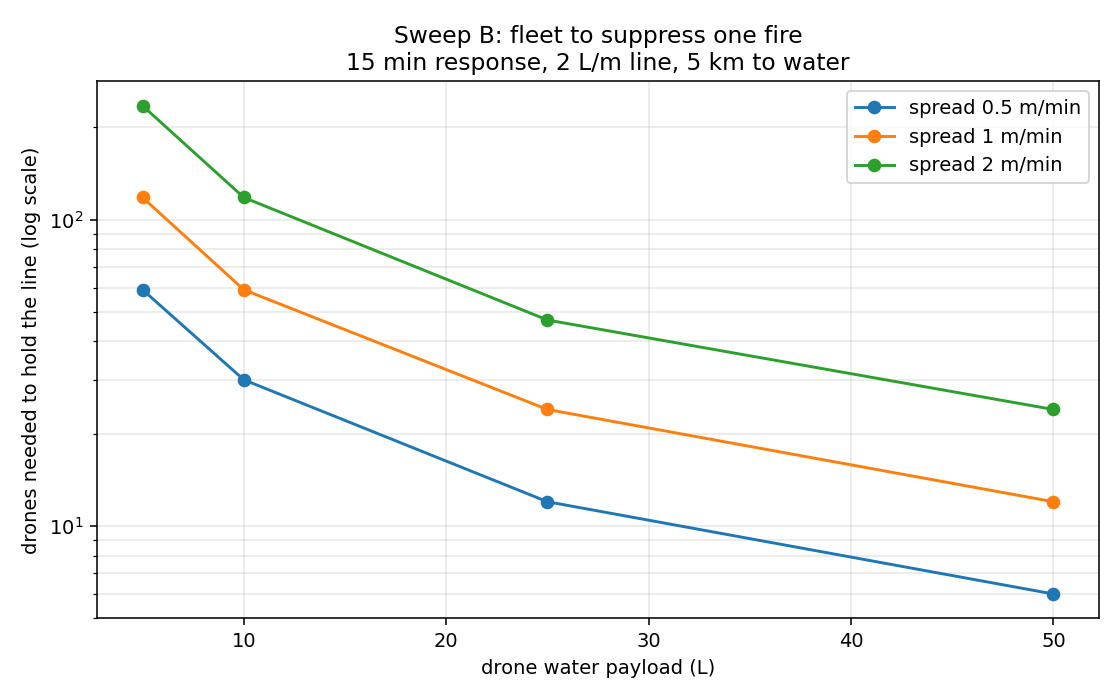
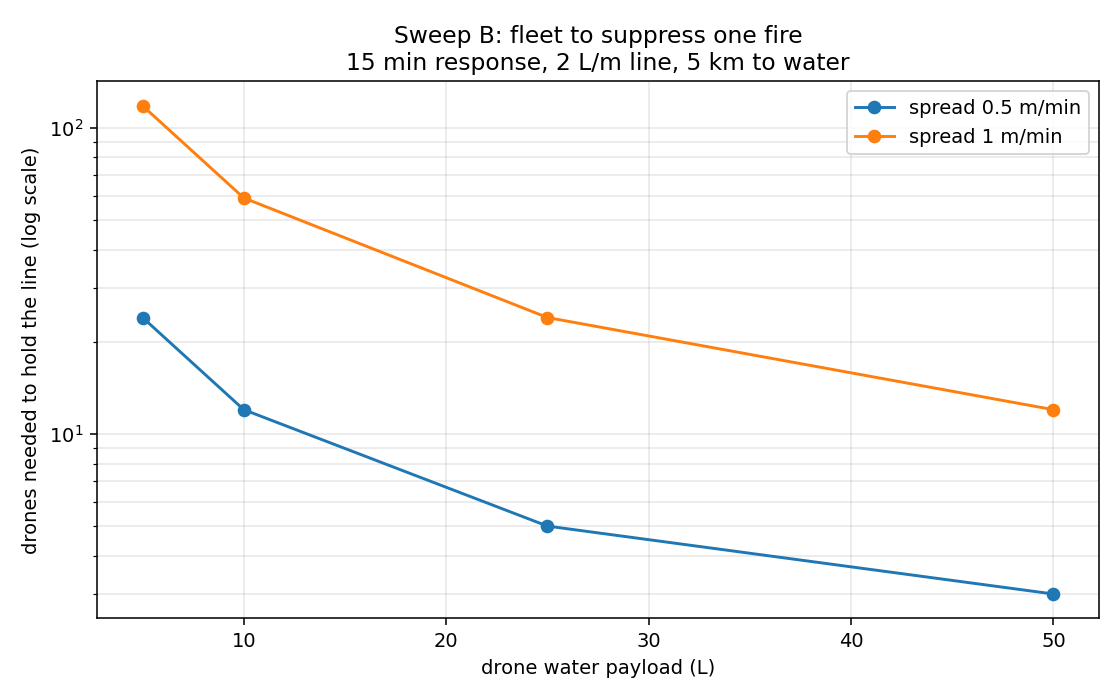
fix: make the suppression window scale with spread rate
Review found the same defect class that burned Tier 0: window_min was a
constant (4000/200 = 20 min), independent of every swept axis, so the
"36/108 configs impossible" headline was the statement 30 > 20 restated 36
times. All 36 infeasible rows were exactly the 30-min-response rows; the
sweep contributed nothing to the conclusion.

Byram's I = H * w * ROS says intensity scales with rate of spread, so a
faster fire must hit the water-is-useless limit sooner. The growth rate is
now quoted at a reference spread rate and scaled linearly: 40 min at
0.5 m/min, 20 at 1.0, 10 at 2.0. Still a linear stand-in, not Byram with
real fuel load; the ponytail comment names the ceiling.

Same 36/108 count, genuinely different cause. Infeasibility is now a race
between spread rate and response time: 0.5 m/min never fails, 1.0 fails
only at a 30 min response, 2.0 fails at 15 or 30. Payload and litres-per-
metre no longer isolate any single value.

Also surfaces the full-ring assumption the reviewer flagged as invisible:
perimeter_share is now a knob, the CSV carries a head-and-flanks column at
0.5, and report() states the assumption instead of burying it in a
docstring.

Two new self-checks guard both fixes, and both were verified to fail when
the defect is reintroduced rather than merely to pass.

Claude-Session: https://claude.ai/code/session_01Q2iB77dJMSaEEz9tTzEKvp

diff --git a/suppression.py b/suppression.py
@@ -46,10 +46,21 @@ CONFIG = {
     # regardless of how much water arrives; crews and helicopters are pulled
     # for the same reason. Used as a hard time window, not a modelled term.
     "intensity_limit_kw_per_m": 4000.0,
-    "intensity_growth_kw_per_m_per_min": 200.0,  # coarse ramp to the limit
+    # ponytail: Byram's I = H * w * ROS says fireline intensity scales
+    # linearly with rate of spread; a fixed-time window ignores that, so the
+    # growth rate is quoted at a reference ROS and scaled linearly with the
+    # swept ros_m_per_min instead. Ceiling: this is still a linear stand-in,
+    # not Byram's formula with real fuel load/heat yield - upgrade path is
+    # Tier 1 with cited fuel data.
+    "intensity_growth_kw_per_m_per_min_at_ref_ros": 200.0,
+    "ref_ros_m_per_min": 1.0,
     # --- response ---
     "response_delay_min": (5.0, 15.0, 30.0),  # ignition -> first water on fire
     "payload_l": (5.0, 10.0, 25.0, 50.0),     # 5L toy .. 50L heavy-lift
+    # Share of the perimeter direct attack must hold. 1.0 = full ring
+    # (worst case, wetting the entire growing circle forever); 0.5 = head
+    # and flanks only, crediting progressive containment on the rest.
+    "perimeter_share": 1.0,
     # --- the incumbent we are being compared to ---
     "heli_drop_l": 3000.0,
     "heli_cycle_s": 900.0,
@@ -63,7 +74,8 @@ def validate_config(cfg):
     """Fail loud at startup rather than mid-sweep."""
     positive = [
         "cruise_mps", "drop_s", "refill_s", "water_source_km",
-        "intensity_limit_kw_per_m", "intensity_growth_kw_per_m_per_min",
+        "intensity_limit_kw_per_m", "intensity_growth_kw_per_m_per_min_at_ref_ros",
+        "ref_ros_m_per_min", "perimeter_share",
         "heli_drop_l", "heli_cycle_s", "drone_cost",
     ]
     for key in positive:
@@ -88,15 +100,21 @@ def perimeter_m(ros_m_per_min, t_min):
     return 2.0 * math.pi * ros_m_per_min * t_min
 
 
-def hold_flow_lps(ros_m_per_min, water_l_per_m):
-    """Flow needed to WET new perimeter as fast as the fire creates it.
+def hold_flow_lps(ros_m_per_min, water_l_per_m, perimeter_share=1.0):
+    """Flow needed to WET the held share of new perimeter as fast as the
+    fire creates it.
 
     dP/dt = 2*pi*ROS is constant for a circular fire, so the holding
     requirement is a constant flow rate independent of when you arrive.
     Arriving late does not raise this rate; it raises the one-off knockdown
     volume below.
+
+    perimeter_share defaults to 1.0: the worst case of wetting the whole
+    growing ring forever. Real direct attack concentrates on the unheld
+    arc (head and flanks), often well under half the circle - pass a
+    smaller share to credit progressive containment on the rest.
     """
-    return 2.0 * math.pi * ros_m_per_min * water_l_per_m / 60.0
+    return 2.0 * math.pi * ros_m_per_min * water_l_per_m * perimeter_share / 60.0
 
 
 def knockdown_l(ros_m_per_min, water_l_per_m, t_min):
@@ -104,10 +122,17 @@ def knockdown_l(ros_m_per_min, water_l_per_m, t_min):
     return perimeter_m(ros_m_per_min, t_min) * water_l_per_m
 
 
-def window_min(cfg):
+def window_min(ros_m_per_min, cfg):
     """Minutes from ignition until fireline intensity passes the point where
-    water stops working. Beyond this the fleet size is academic."""
-    return cfg["intensity_limit_kw_per_m"] / cfg["intensity_growth_kw_per_m_per_min"]
+    water stops working. Beyond this the fleet size is academic.
+
+    Byram's I = H * w * ROS: intensity scales linearly with rate of spread,
+    so a faster fire must hit the limit sooner. Growth rate is quoted at a
+    reference ROS and scaled linearly - see ponytail on CONFIG.
+    """
+    growth = (cfg["intensity_growth_kw_per_m_per_min_at_ref_ros"]
+              * ros_m_per_min / cfg["ref_ros_m_per_min"])
+    return cfg["intensity_limit_kw_per_m"] / growth
 
 
 def fleet_size(payload_l, ros_m_per_min, water_l_per_m, delay_min, cfg):
@@ -116,9 +141,9 @@ def fleet_size(payload_l, ros_m_per_min, water_l_per_m, delay_min, cfg):
     Knockdown must land inside the remaining window before intensity passes
     the limit, so it too becomes a flow requirement, not just a volume.
     """
-    remaining_min = window_min(cfg) - delay_min
+    remaining_min = window_min(ros_m_per_min, cfg) - delay_min
     per_drone = drone_flow_lps(payload_l, cfg)
-    hold = hold_flow_lps(ros_m_per_min, water_l_per_m)
+    hold = hold_flow_lps(ros_m_per_min, water_l_per_m, cfg["perimeter_share"])
     if remaining_min <= 0.0:
         # Arrived after water stops working. No fleet size succeeds.
         return None, hold / per_drone, float("inf")
@@ -137,9 +162,11 @@ def run_sweep(cfg=CONFIG):
     axes = itertools.product(
         cfg["payload_l"], cfg["ros_m_per_min"], cfg["water_l_per_m"], cfg["response_delay_min"]
     )
+    half_cfg = dict(cfg, perimeter_share=0.5)
     for payload_l, ros, wpm, delay in axes:
         n, hold_drones, knock_drones = fleet_size(payload_l, ros, wpm, delay, cfg)
         feasible = n is not None
+        n_half, _, _ = fleet_size(payload_l, ros, wpm, delay, half_cfg)
         rows.append({
             "payload_l": payload_l,
             "ros_m_per_min": ros,
@@ -154,6 +181,9 @@ def run_sweep(cfg=CONFIG):
                 round(n * drone_flow_lps(payload_l, cfg) / heli_equivalent(cfg), 2)
                 if feasible else ""
             ),
+            # perimeter_share=0.5: head-and-flanks direct attack instead of
+            # the full-ring worst case. See CONFIG["perimeter_share"].
+            "fleet_drones_half_perimeter": n_half if n_half is not None else "",
         })
     return rows
 
@@ -205,14 +235,21 @@ def report(rows, cfg=CONFIG):
     mid_delay = sorted(cfg["response_delay_min"])[len(cfg["response_delay_min"]) // 2]
     best_payload = max(cfg["payload_l"])
     n, _, _ = fleet_size(best_payload, mid_ros, mid_wpm, mid_delay, cfg)
+    n_half, _, _ = fleet_size(best_payload, mid_ros, mid_wpm, mid_delay,
+                               dict(cfg, perimeter_share=0.5))
     lines = [
-        f"Water stops working ~{window_min(cfg):g} min after ignition "
-        f"({cfg['intensity_limit_kw_per_m']:g} kW/m at "
-        f"{cfg['intensity_growth_kw_per_m_per_min']:g} kW/m/min).",
+        f"Water stops working ~{window_min(mid_ros, cfg):g} min after ignition at "
+        f"{mid_ros:g} m/min ({cfg['intensity_limit_kw_per_m']:g} kW/m at "
+        f"{cfg['intensity_growth_kw_per_m_per_min_at_ref_ros']:g} kW/m/min "
+        f"quoted at {cfg['ref_ros_m_per_min']:g} m/min, scaled linearly with spread).",
         f"One drone cycle is {cycle_s(cfg) / 60.0:.1f} min for "
         f"{best_payload:g} L -> {drone_flow_lps(best_payload, cfg):.2f} L/s sustained.",
         f"One helicopter sustains {heli_lps:.1f} L/s "
         f"= {heli_lps / drone_flow_lps(best_payload, cfg):.0f} of those drones.",
+        f"Fleet sizes assume the full-ring worst case (perimeter_share="
+        f"{cfg['perimeter_share']:g}: wetting the entire growing perimeter "
+        f"continuously). Crediting head-and-flanks direct attack only "
+        f"(perimeter_share=0.5) roughly halves the requirement.",
     ]
     if n is None:
         lines.append(
@@ -220,10 +257,12 @@ def report(rows, cfg=CONFIG):
             f"NO fleet size works - water arrives after the window closes."
         )
     else:
+        half_txt = f"{n_half} at perimeter_share=0.5" if n_half is not None else "still infeasible at 0.5"
         lines.append(
             f"At {mid_ros:g} m/min, {mid_wpm:g} L/m, {mid_delay:g} min response: "
             f"{n} x {best_payload:g}L drones = EUR {n * cfg['drone_cost']:,.0f} capex "
-            f"to match roughly {n * drone_flow_lps(best_payload, cfg) / heli_lps:.1f} helicopters."
+            f"to match roughly {n * drone_flow_lps(best_payload, cfg) / heli_lps:.1f} helicopters "
+            f"({half_txt})."
         )
     infeasible = sum(1 for r in rows if not r["feasible"])
     lines.append(f"{infeasible}/{len(rows)} configs cannot be held at any fleet size.")
@@ -263,7 +302,7 @@ def check_knockdown_grows_with_delay():
 def check_fleet_monotonic():
     """Every axis must push fleet size the way physics says, or an axis is
     inert - the exact defect that survived six reviews in Tier 0."""
-    base = dict(payload_l=25.0, ros_m_per_min=1.0, water_l_per_m=2.0, delay_min=10.0, cfg=CONFIG)
+    base = dict(payload_l=25.0, ros_m_per_min=1.0, water_l_per_m=2.0, delay_min=5.0, cfg=CONFIG)
     n0, _, _ = fleet_size(**base)
     assert n0 is not None and n0 > 0, n0
     bigger, _, _ = fleet_size(**dict(base, payload_l=50.0))
@@ -281,11 +320,36 @@ def check_fleet_monotonic():
 def check_window_closes():
     """Past the intensity limit, no fleet works. Must return None, not a
     large number - a large number would read as 'expensive but possible'."""
-    late = window_min(CONFIG) + 1.0
+    late = window_min(1.0, CONFIG) + 1.0
     n, _, _ = fleet_size(25.0, 1.0, 2.0, late, CONFIG)
     assert n is None, n
-    n, _, _ = fleet_size(25.0, 1.0, 2.0, window_min(CONFIG) - 1.0, CONFIG)
+    n, _, _ = fleet_size(25.0, 1.0, 2.0, window_min(1.0, CONFIG) - 1.0, CONFIG)
     assert n is not None and n > 0, n
+
+
+def check_window_shrinks_with_spread():
+    """window_min must depend on ros_m_per_min, not just restate the limit
+    and growth-rate config values - the exact defect this file shipped
+    with: a 'derived' number that was actually a constant."""
+    slow = window_min(0.5, CONFIG)
+    ref = window_min(1.0, CONFIG)
+    fast = window_min(2.0, CONFIG)
+    assert fast < ref < slow, (slow, ref, fast)
+    # linear ramp -> window scales exactly inversely with ROS
+    assert abs(fast - ref / 2.0) < 1e-9, (fast, ref)
+    assert abs(slow - ref * 2.0) < 1e-9, (slow, ref)
+
+
+def check_perimeter_share_moves_fleet():
+    """perimeter_share must actually reduce the holding requirement and
+    fleet size, or the knob is decorative."""
+    full = hold_flow_lps(1.0, 2.0, perimeter_share=1.0)
+    half = hold_flow_lps(1.0, 2.0, perimeter_share=0.5)
+    assert half == full / 2.0, (full, half)
+    n_full, _, _ = fleet_size(25.0, 1.0, 2.0, 10.0, CONFIG)
+    n_half, _, _ = fleet_size(25.0, 1.0, 2.0, 10.0, dict(CONFIG, perimeter_share=0.5))
+    assert n_full is not None and n_half is not None, (n_full, n_half)
+    assert n_half < n_full, f"halving perimeter_share must need fewer drones: {n_half} vs {n_full}"
 
 
 def check_sweep_shape():
@@ -298,7 +362,8 @@ def check_sweep_shape():
 
 def run_checks():
     for fn in (check_flow, check_hold_is_arrival_independent, check_knockdown_grows_with_delay,
-               check_fleet_monotonic, check_window_closes, check_sweep_shape):
+               check_fleet_monotonic, check_window_closes, check_window_shrinks_with_spread,
+               check_perimeter_share_moves_fleet, check_sweep_shape):
         fn()
         print(f"ok  {fn.__name__}")
     print("all checks passed")
